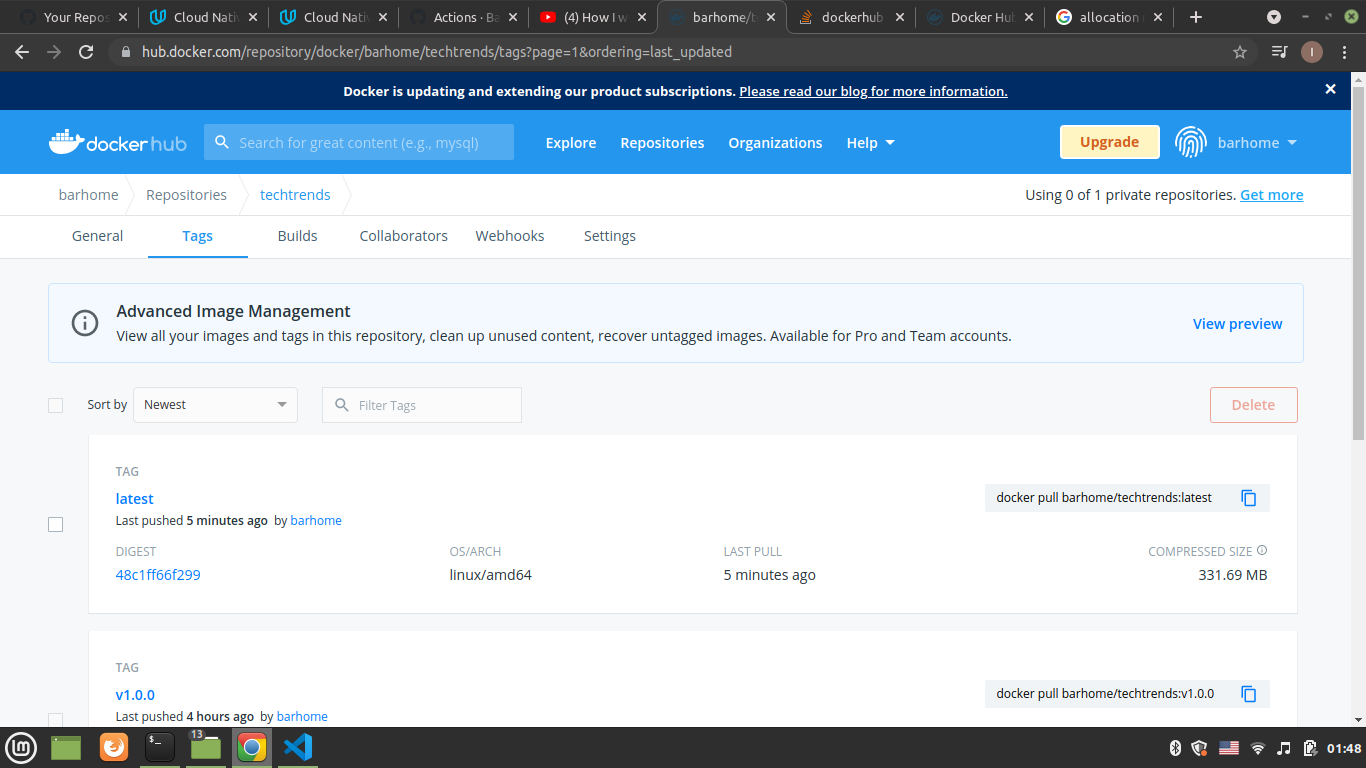
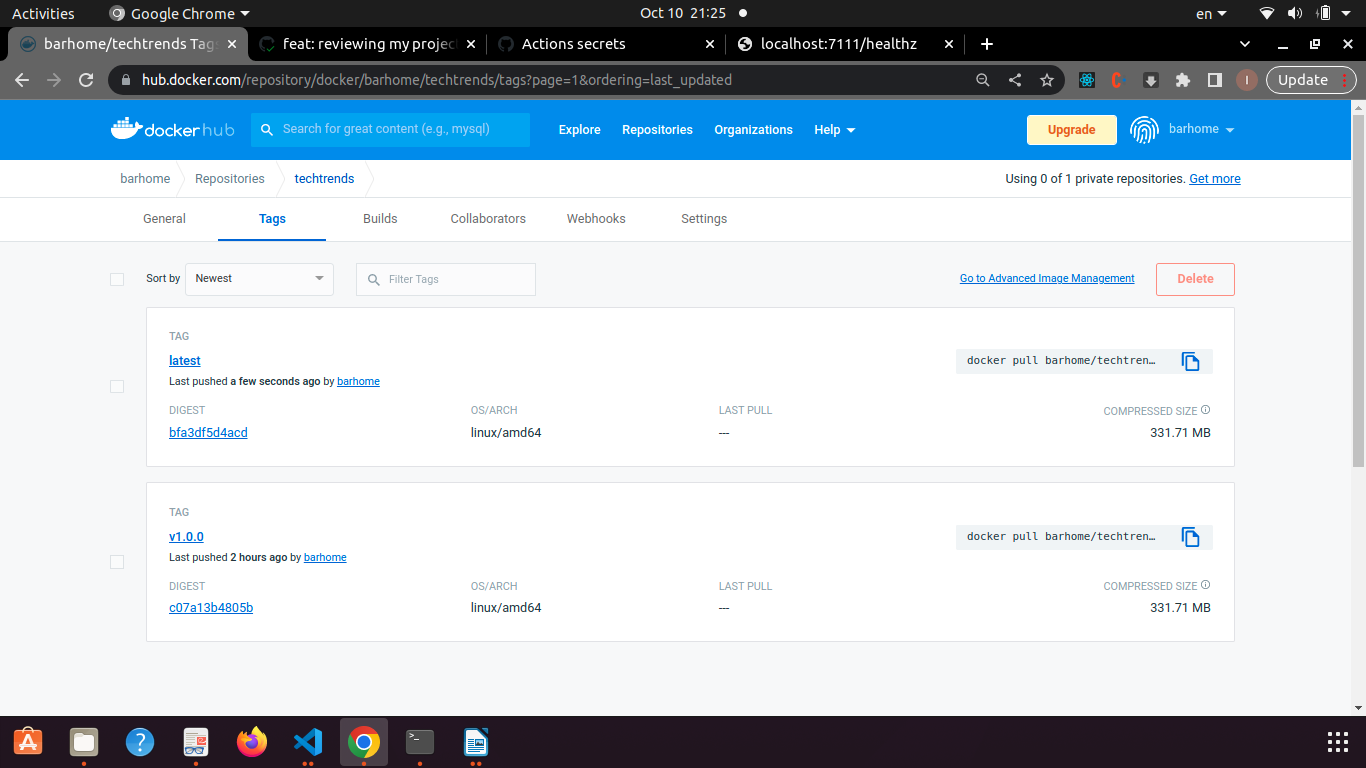
update: update readme.md file after reviewing on github actions and bootstrapping kubernetes cluster

diff --git a/README.md b/README.md
@@ -12,7 +12,7 @@
 
 ![](screenshots/docker-run-local.png)
 
-# the docker logs command
+## The docker logs command After adding logging functionalities metrics endpoint as a best practice in the development process we should check on that by doing the following:
 
 - get the container ID by running the command `docker ps`
 
@@ -37,3 +37,24 @@ Monday, 10/Oct/2022 at, 18:37:28 PM 172.17.0.1 - - [10/Oct/2022 18:37:28] "GET /
 Monday, 10/Oct/2022 at, 18:38:57 PM 172.17.0.1 - - [10/Oct/2022 18:38:57] "GET /healthz HTTP/1.1" 200 -
 Monday, 10/Oct/2022 at, 18:45:16 PM 172.17.0.1 - - [10/Oct/2022 18:45:16] "GET /healthz HTTP/1.1" 200 -
 Monday, 10/Oct/2022 at, 18:45:19 PM 172.17.0.1 - - [10/Oct/2022 18:45:19] "GET /healthz HTTP/1.1" 200 -
+
+## Continuous Integration With Github actions
+
+- Create a configration file named techtrends-dockerhub.yaml in .github/workflows/ directory as in the project
+- Create dockerhub token and github encrypted secrets that will be used inside of the configration file
+- upon pushing new commits to github the configration file will the dockerhub token and github secrets to log in dockerhub and push new images.
+
+## Here are screenshots of successful github action and new image on dockerhub
+
+![](screenshots/ci-github-actions.png)
+![](screenshots/ci-dockerhub.png)
+
+## Kubernetes Declarative Manifests
+
+- run `vagrant up` in the directory that contains the vagrant file , The vagrant file has a command for automatically bootstrapping the kubernetes cluster using k3s
+- run `vagrant ssh` and use `sudo su` to become root and use kubectl commands
+- verify if th the kubernetes cluster is operational by evaluating the node status in the cluster to be up and running
+
+## Here is a screenshot of k8s node :
+
+![](screenshots/k8s-nodes.png)
